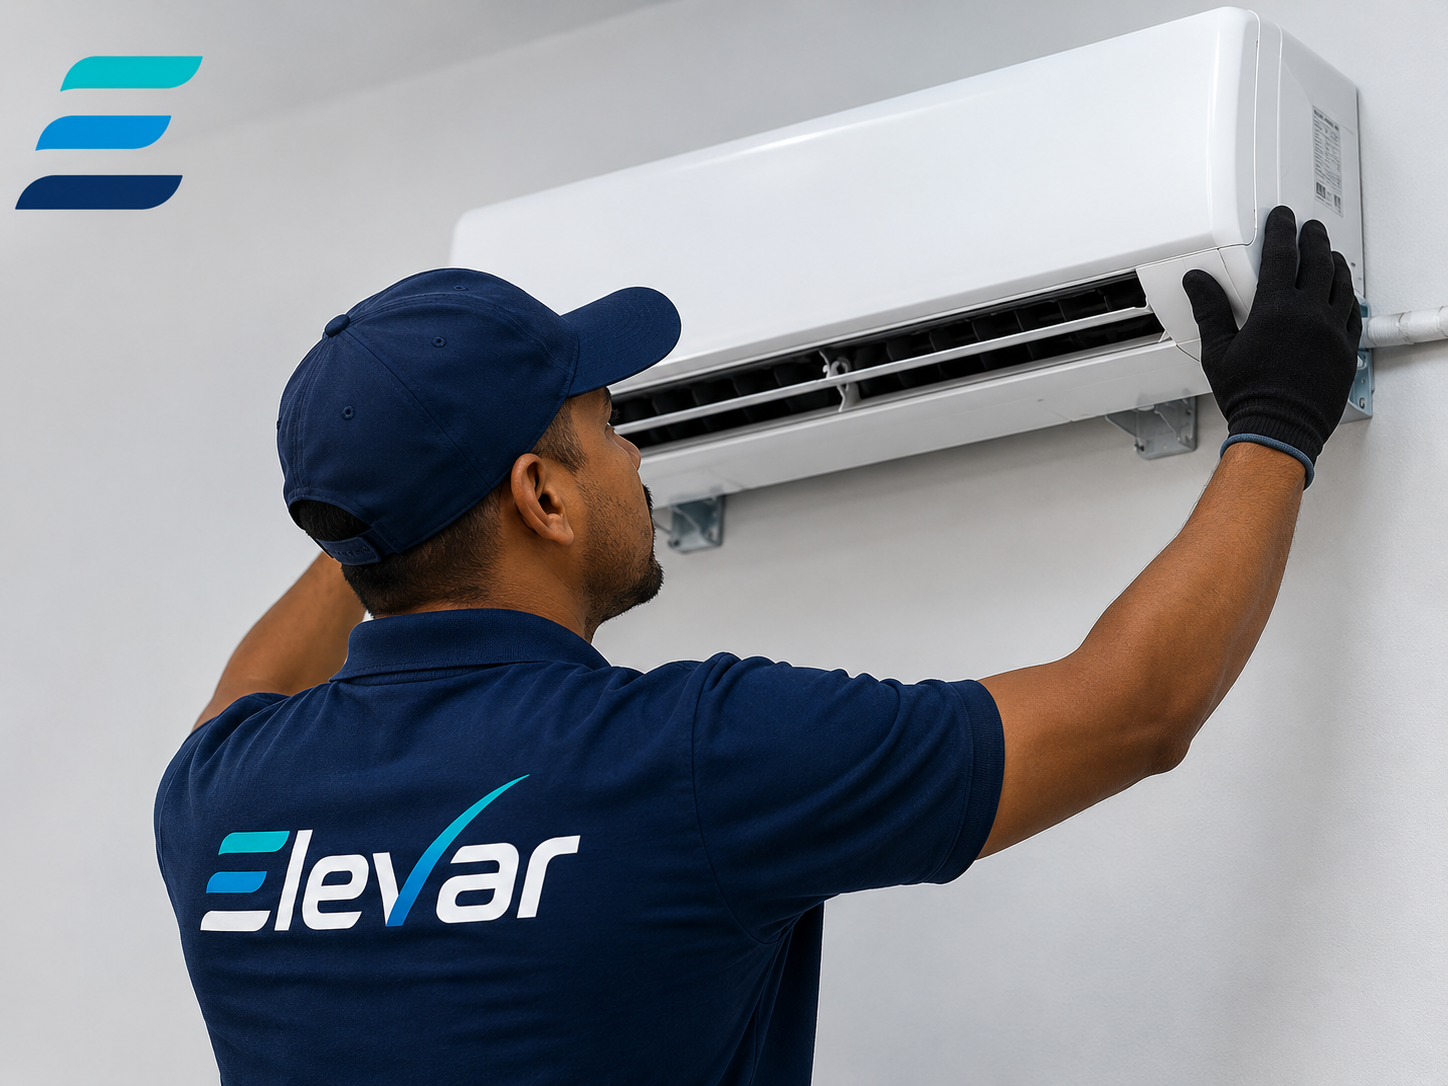
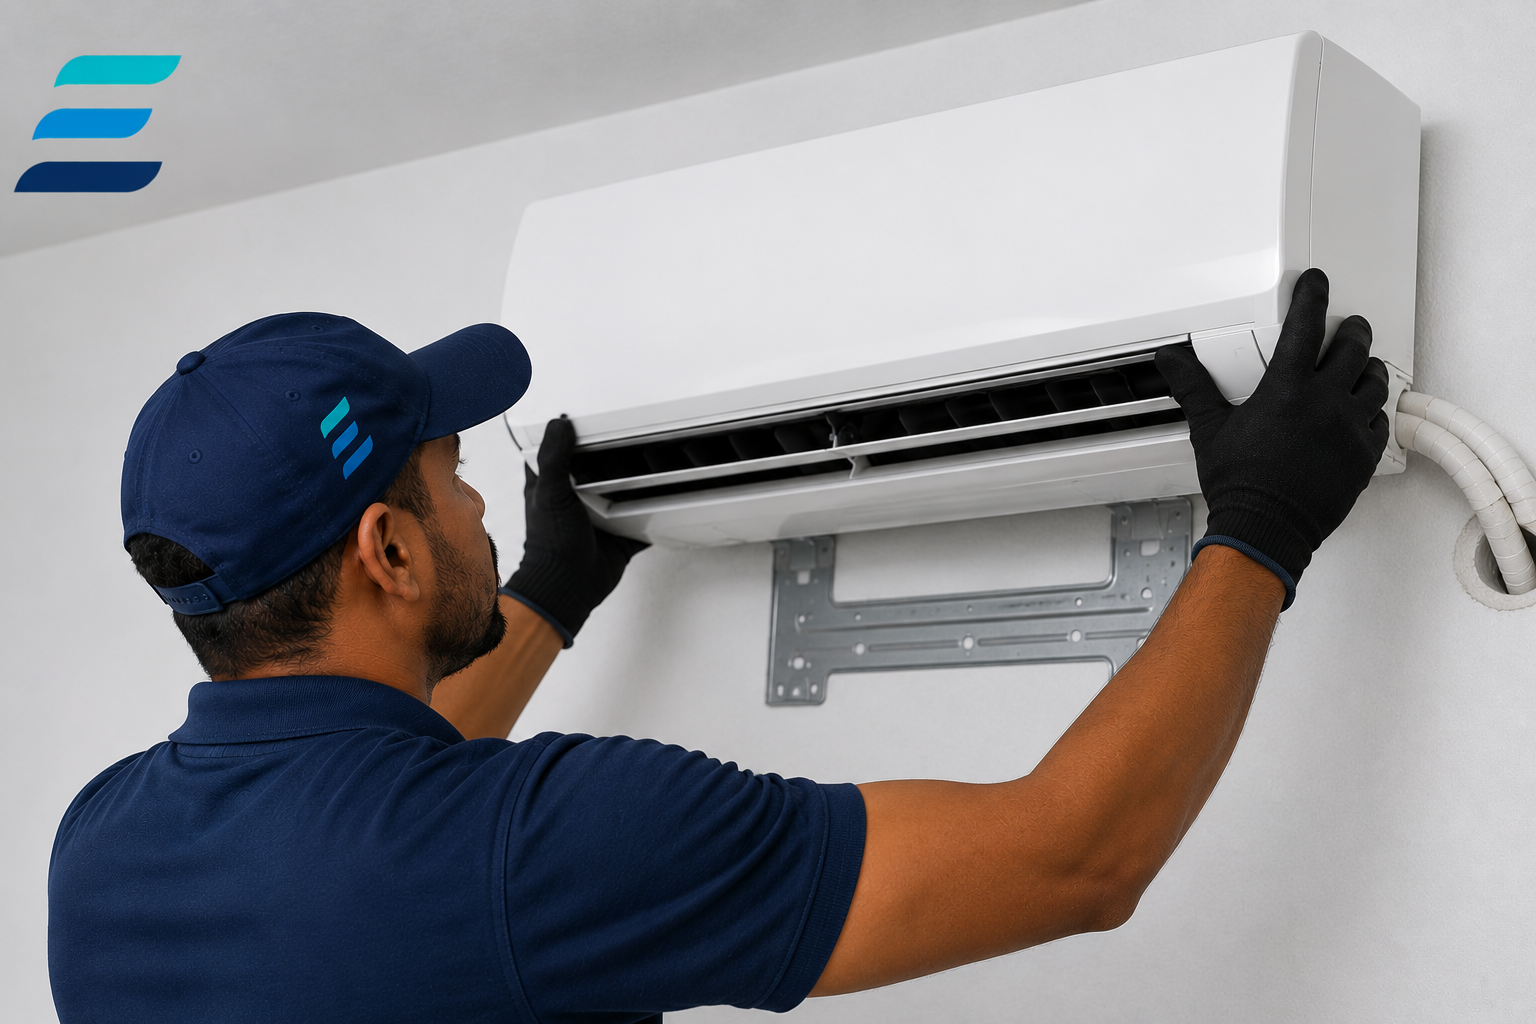
alteraçãos na pagina servicos

diff --git a/1periodo/PWE/listas/PROJETO FINAL/css/style.css b/1periodo/PWE/listas/PROJETO FINAL/css/style.css
@@ -198,12 +198,19 @@ h1:hover{
 .secContato>div>div{
     flex-grow: 1;
 }
+.servicos p{
+    text-align: center;
+}
 .servicos div div{
     width: 33%;
 }
 .servicos div div img{
     width: 100%;
     height: 220px;
+    border-bottom: 3px solid #dbecff;
+    border-right: 3px solid #dbecff;
+    border-radius: 20px;
+    box-shadow: 2px 2px 5px #7bb0ff;
 }
 footer p, footer a:link, footer a:visited{
     color: white;
@@ -260,7 +267,6 @@ footer div div{
     border-left: 1px solid #5999fa;
     }
     .secImg img{
-        height: 800px;
         width: 95%;
         
     }

diff --git a/1periodo/PWE/listas/PROJETO FINAL/index.html b/1periodo/PWE/listas/PROJETO FINAL/index.html
@@ -47,7 +47,7 @@
 
         <section class="secImg">
             <picture>
-                <img src="img/BannerElevar2.png" alt="">
+                <img src="img/homeimage.png" alt="">
             </picture>
         </section>
 